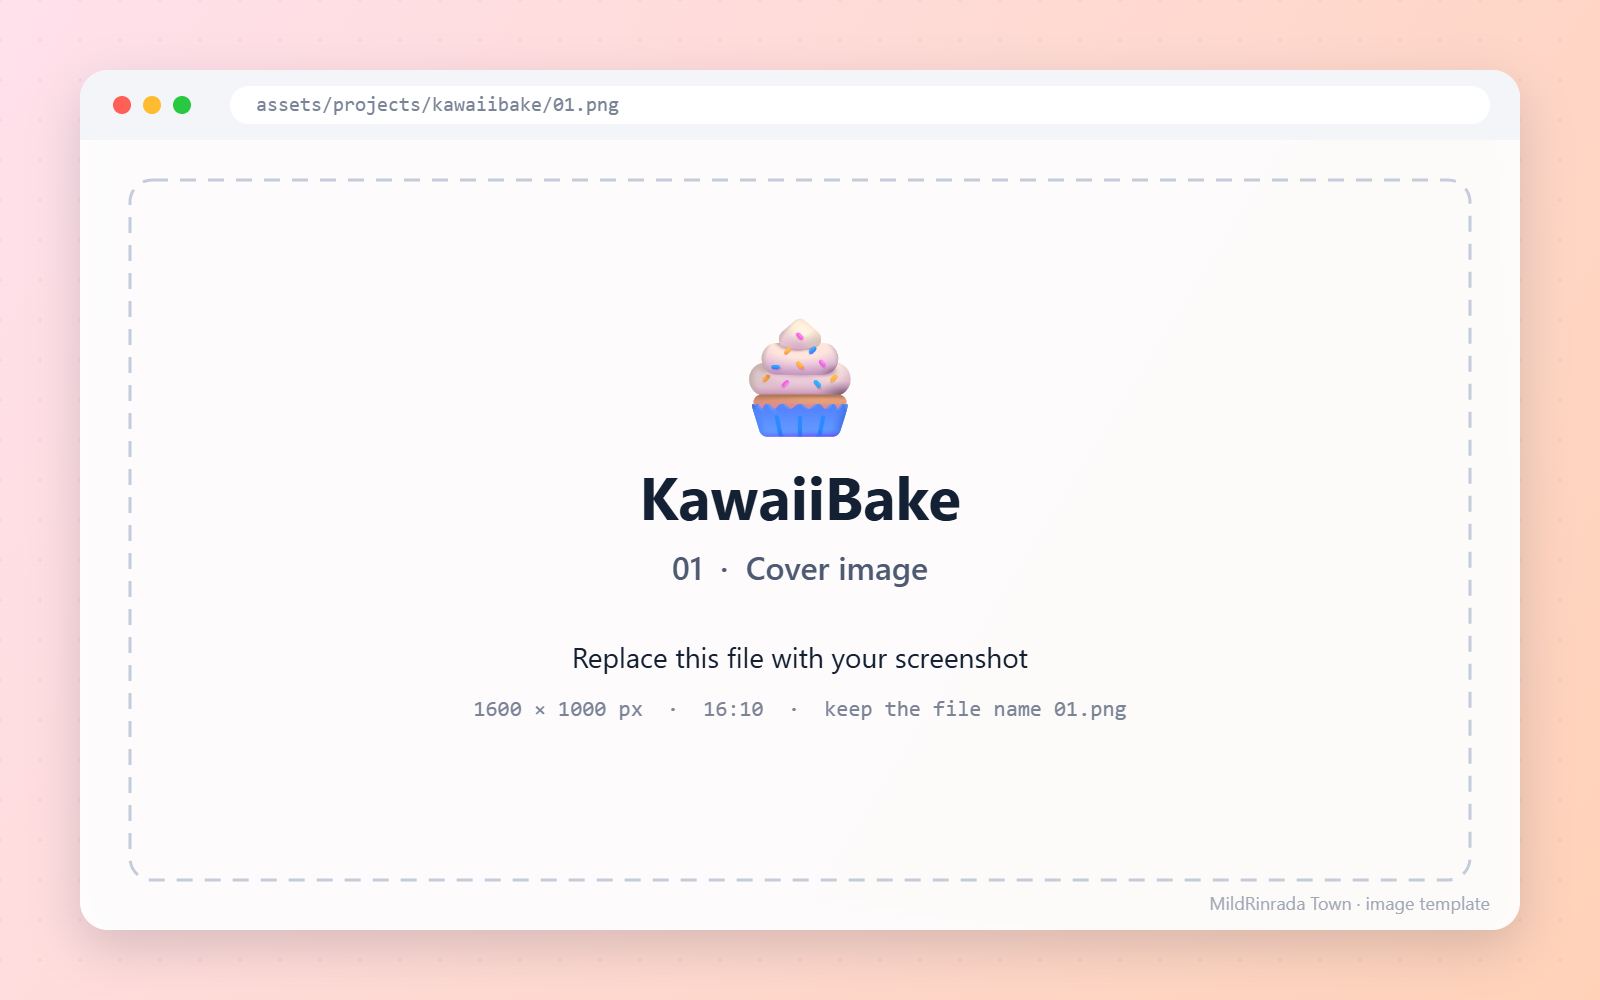
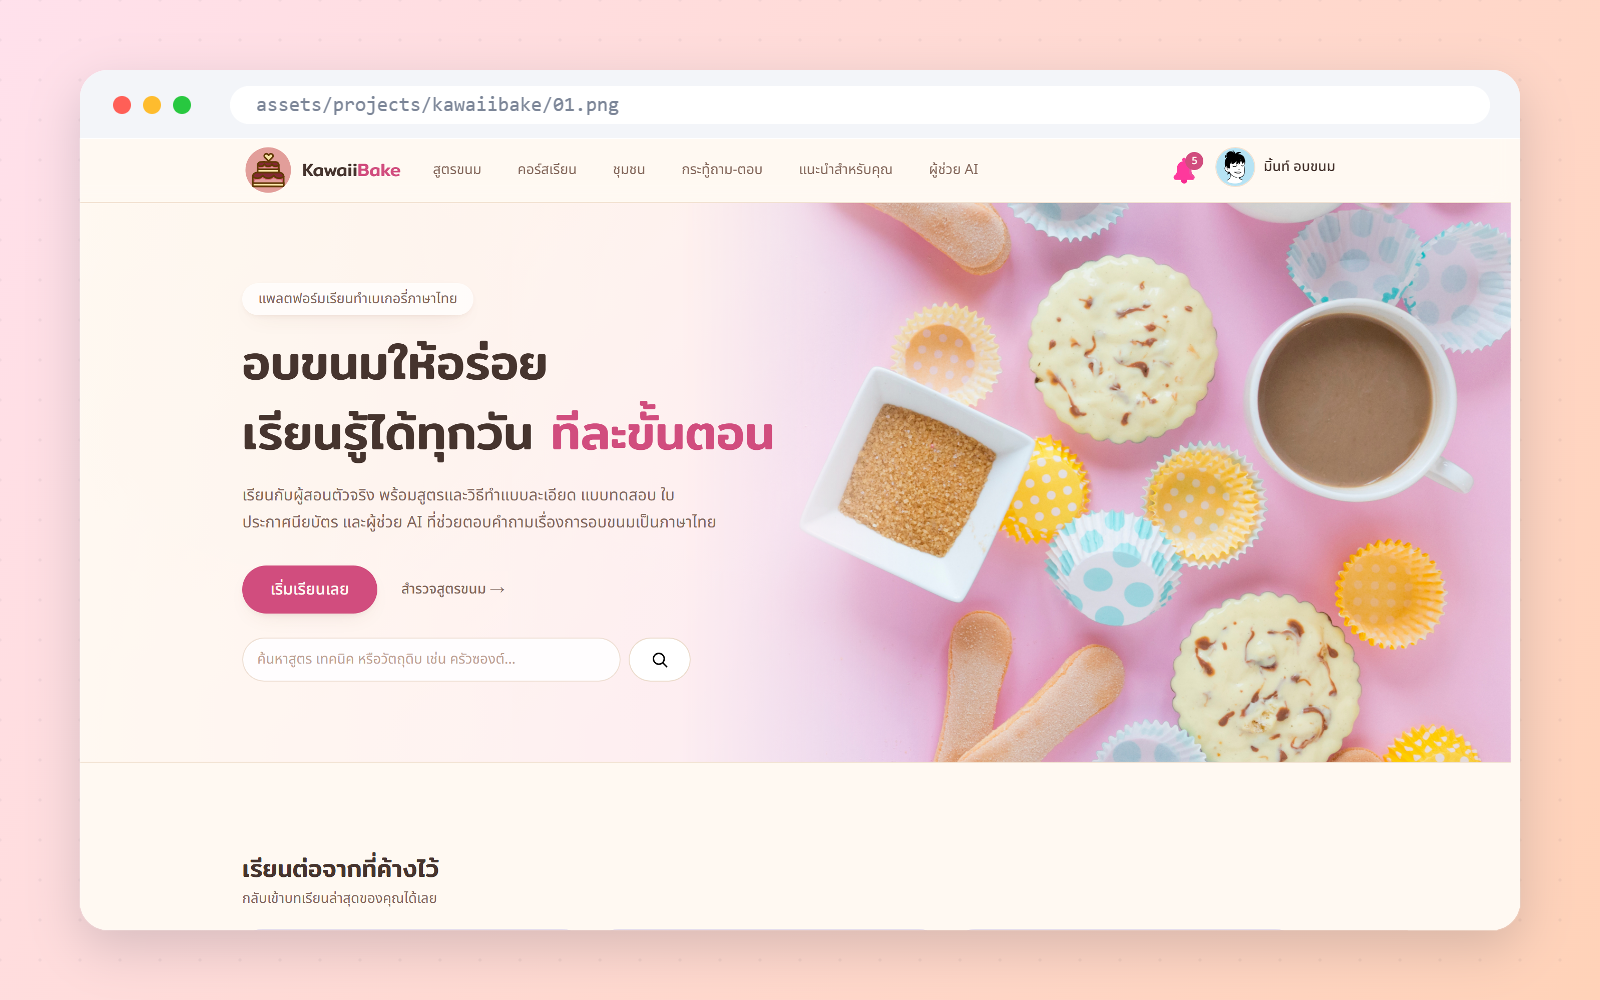
Add fourth image to kawaiibake project and update media reference in town data

diff --git a/data/town.js b/data/town.js
@@ -309,7 +309,7 @@ export const places = [
       { kind: 'data', items: ['PostgreSQL', 'Redis'] },
     ],
     links: { live: '', repo: '' },
-    media: gallery('kawaiibake', 3),
+    media: gallery('kawaiibake', 4),
   },
   {
     id: 'happy-paws-clinic',

diff --git a/assets/projects/README.md b/assets/projects/README.md
@@ -4,7 +4,7 @@ Every project has its own folder, already filled with templates:
 
 ```
 assets/projects/
-  kawaiibake/        01.png  02.png  03.png
+  kawaiibake/        01.png  02.png  03.png  04.png
   customer-service/  demo.mp4  01.png  02.png  03.png  04.png   ← demo.mp4 plays first
   fictionthai/       01.png  02.png  03.png
   securesight/       01.png  02.png  03.png
